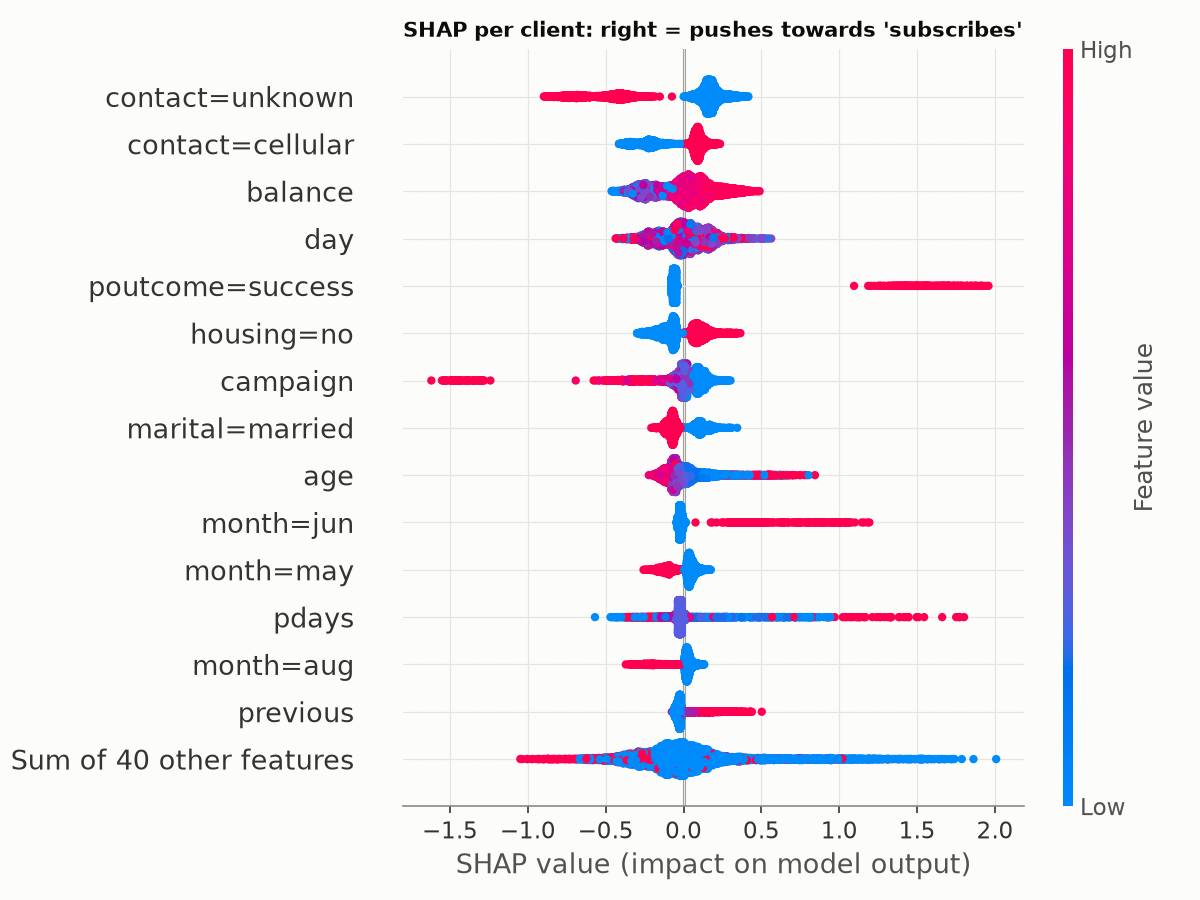
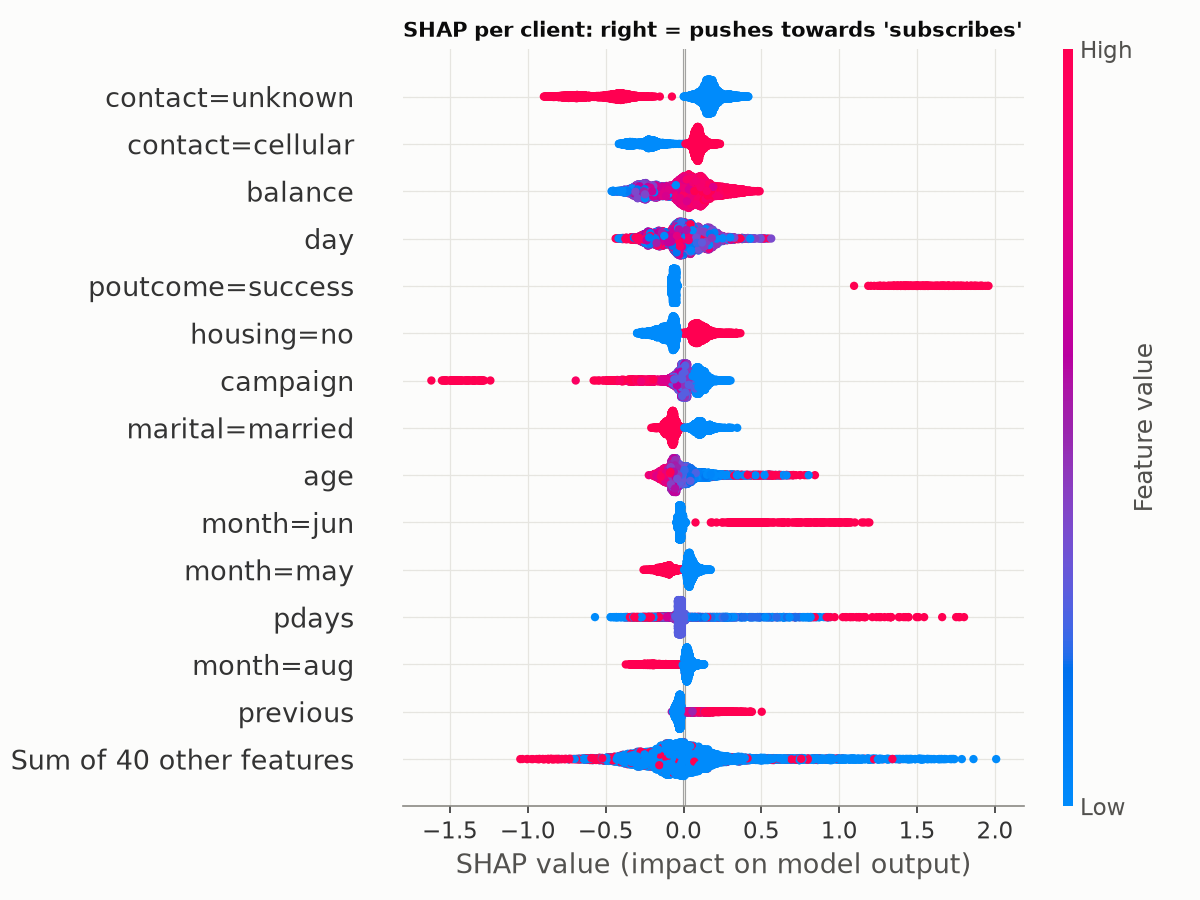
Tighten docs, seed SHAP plot and log Optuna trial tables

diff --git a/src/tuning.py b/src/tuning.py
@@ -10,7 +10,7 @@ profit-optimal threshold is chosen afterwards on the best model's out-of-fold sc
 The best CV score is slightly optimistic (the same folds picked the winner, see S5 nested CV);
 the untouched test set gives the honest number at the end.
 
-Run: python -m src.tuning      (about 10 minutes)
+Run: python -m src.tuning      (about 20 minutes)
 """
 import json
 
@@ -51,8 +51,11 @@ def tune(name: str, X: pd.DataFrame, y: pd.Series) -> optuna.Study:
 
     study = optuna.create_study(direction="maximize", study_name=name,
                                 sampler=optuna.samplers.TPESampler(seed=SEED))
-    with parent_run(f"optuna_{name}"):
+    trials_file = path("tables") / f"optuna_trials_{name}.csv"
+    with parent_run(f"optuna_{name}", [trials_file]):
         study.optimize(objective, n_trials=TUNING["n_trials"])
+        # Every trial's settings and score, kept as the study's artifact.
+        study.trials_dataframe().to_csv(trials_file, index=False)
     return study
 
 

diff --git a/src/eda.py b/src/eda.py
@@ -1,9 +1,9 @@
 """Step 1 - EDA and split checks.
 
-Everything is computed on the training 80% only: looking at the test set, even just to draw
-plots, would let it influence our modelling choices. The only exception is the row-order
-(drift) plot, which needs the original row order of the full file and uses no test labels
-for any decision we make.
+Every finding is computed on the training 80% only: looking at the test set, even just to draw
+plots, would let it influence our modelling choices. The full file appears in three checks that
+feed no modelling decision: the stratification table (size and rate of each part), the integrity
+checks (duplicates, ranges) and the drift plot, which needs the original row order.
 
 Run: python -m src.eda
 """

diff --git a/src/explain.py b/src/explain.py
@@ -143,6 +143,7 @@ def main() -> None:
         ax.grid(axis="y", visible=False)
     save(fig, "importance_three_views")
 
+    np.random.seed(SEED)  # the beeswarm jitters dots with numpy's global random state
     shap.plots.beeswarm(shap_values, max_display=15, show=False)
     plt.gcf().set_size_inches(8, 6)
     plt.title("SHAP per client: right = pushes towards 'subscribes'", loc="left")

diff --git a/src/calibration.py b/src/calibration.py
@@ -14,7 +14,7 @@ Three candidates on the tuned LightGBM, all scored out-of-fold (S7):
   so no calibrator ever sees its own training labels.
 S7 rule: prefer the simpler option when the differences are small.
 
-Run: python -m src.calibration     (about 3 minutes)
+Run: python -m src.calibration     (a few minutes)
 """
 import json
 

diff --git a/README.md b/README.md
@@ -74,7 +74,7 @@ src/
   tracking.py     step 7: MLflow logging (one parent run per experiment, one child per candidate)
   explain.py      step 8: global importance (3 views) + local SHAP explanations
   calibration.py  step 9: are the probabilities honest? (reliability, Brier, ECE)
-  evaluation.py   shared metrics: out-of-fold scores, AP, precision, recall, profit
+  evaluation.py   shared metrics: out-of-fold scores, AP, precision, recall, profit, ECE
   plots.py        shared figure style
 reports/
   figures/        plots used in the report
@@ -89,7 +89,10 @@ data/             dataset cache (git-ignored)
 - `duration` is dropped before any split.
 - The test set is split off once (seed 42) and only scored at the very end.
 - All preprocessing sits inside the Pipeline, so it is refitted inside every CV fold.
-- EDA uses the training set only.
+- Class weights, SMOTE and calibrators are fitted inside training folds only; the decision
+  threshold is chosen on out-of-fold scores, never on the test set.
+- EDA findings come from the training set only (the test set appears only in the
+  stratification check and the drift plot).
 - One seed in `config.yaml` drives every split, model and sampler.
 
 ## Known limitation
